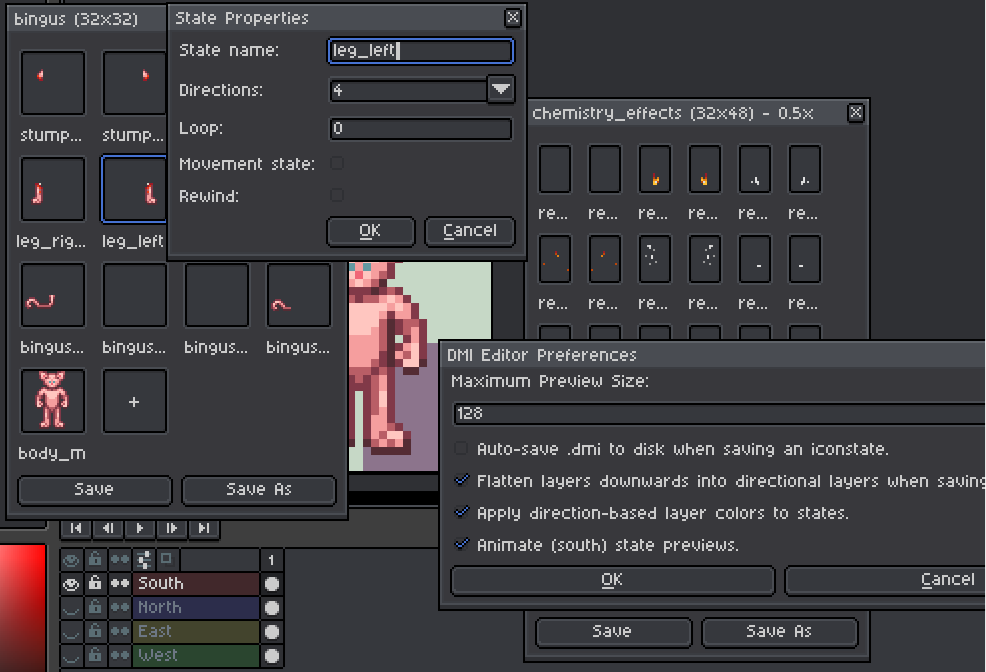
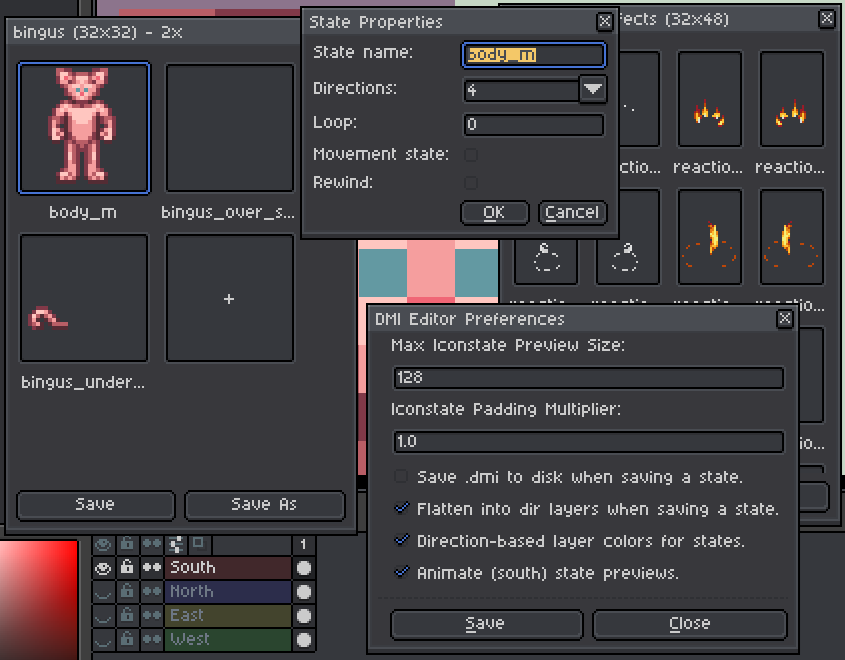
2.0.0-beta.2

diff --git a/README.md b/README.md
@@ -11,7 +11,7 @@ The latest version of this extension is available for download from the [Release
 
 The plugin will also prompt you to download an update when a new version is released.
 
-**Requires Aseprite v1.3.18-beta3 or later.**
+### Requires Aseprite v1.3.18 or later.
 
 ## Usage
 
